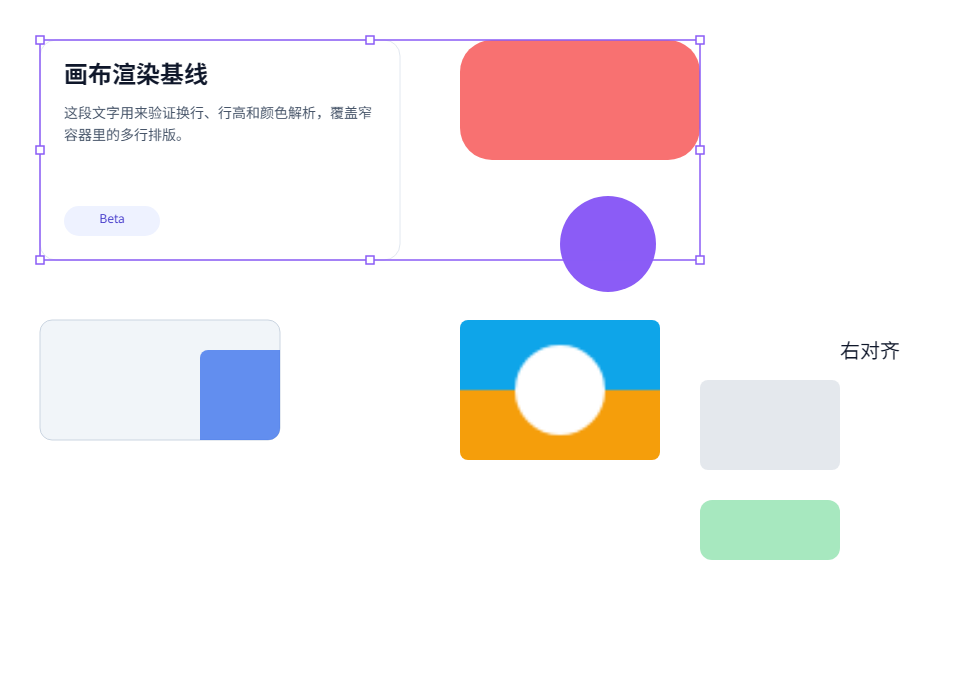
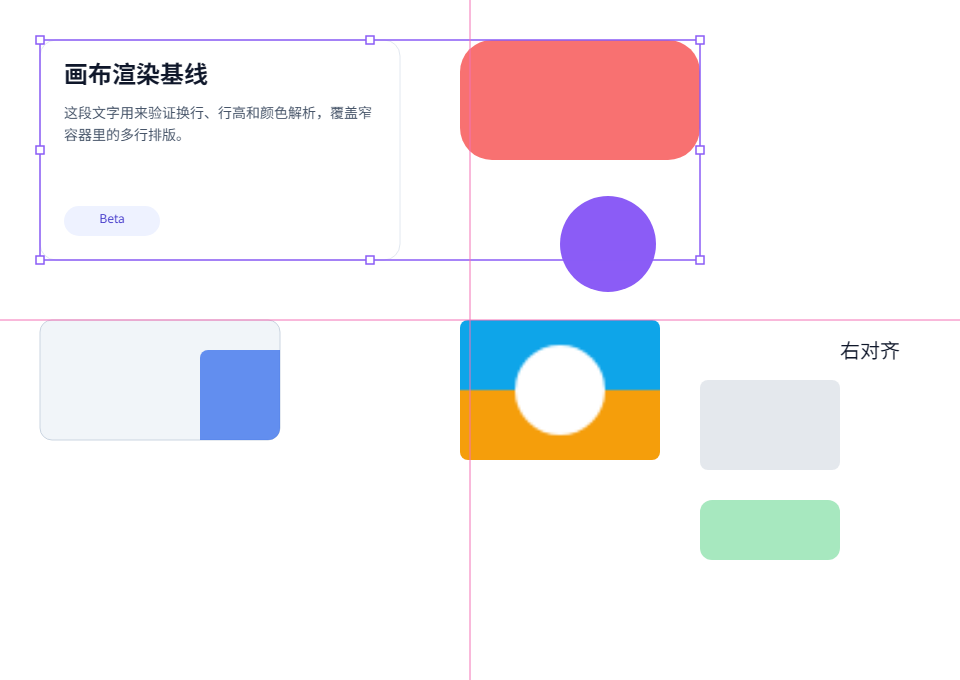
feat: implement snapping functionality with visual guides for canvas interactions

Changed region(s): [[0.4688, 0.4632, 0.5, 0.4941]]

diff --git a/packages/studio-web/test/renderer-snapping.test.ts b/packages/studio-web/test/renderer-snapping.test.ts
@@ -1,0 +1,75 @@
+import assert from "node:assert/strict";
+import test from "node:test";
+import { snapBox, snapTargetsFromScene } from "../src/renderer/snapping";
+import { paintSnapGuides } from "../src/renderer/selection-overlay";
+
+const target = (nodeId: string, x: number, y: number, width = 100, height = 50) => ({ nodeId, box: { x, y, width, height } });
+
+test("snaps a near left edge and reports a vertical guide", () => {
+  const result = snapBox({ x: 98, y: 200, width: 50, height: 50 }, [target("t", 100, 0)], { threshold: 6 });
+  assert.equal(result.deltaX, 2);
+  assert.equal(result.deltaY, 0);
+  assert.deepEqual(result.guides, [{ orientation: "vertical", position: 100, targetNodeId: "t" }]);
+});
+
+test("snaps centres on both axes", () => {
+  const result = snapBox({ x: 0, y: 0, width: 100, height: 100 }, [target("t", 0, 0, 200, 200)], { threshold: 6 });
+  // 左边与上边正好对齐，两轴都产生辅助线。
+  assert.equal(result.deltaX, 0);
+  assert.equal(result.deltaY, 0);
+  assert.equal(result.guides.length, 2);
+
+  const near = snapBox({ x: 96, y: 0, width: 8, height: 200 }, [target("t", 0, 0, 200, 200)], { threshold: 6 });
+  // 左边 96 距 100 有 4；中心 100 正好对齐 100。
+  assert.equal(near.deltaX, 0);
+  assert.equal(near.guides[0]?.orientation, "vertical");
+});
+
+test("ignores targets outside the threshold", () => {
+  const result = snapBox({ x: 0, y: 0, width: 10, height: 10 }, [target("t", 100, 100)], { threshold: 5 });
+  assert.deepEqual(result, { deltaX: 0, deltaY: 0, guides: [] });
+});
+
+test("picks the nearest of several candidates", () => {
+  const result = snapBox({ x: 104, y: 0, width: 10, height: 10 }, [target("far", 106, 0), target("near", 105, 0)], { threshold: 6 });
+  assert.equal(result.deltaX, 1);
+  assert.equal(result.guides[0]?.targetNodeId, "near");
+});
+
+test("snaps both axes independently", () => {
+  const result = snapBox({ x: 98, y: 47, width: 10, height: 10 }, [target("t", 100, 50, 10, 10)], { threshold: 6 });
+  // Y 轴最近的候选是「移动后的中心 52」对齐目标中心 50，所以位移是 -2。
+  assert.equal(result.deltaX, 2);
+  assert.equal(result.deltaY, -2);
+  assert.equal(result.guides.length, 2);
+});
+
+test("snapTargetsFromScene excludes the dragged selection", () => {
+  const scene = [
+    { id: "a", box: { x: 0, y: 0, width: 10, height: 10 }, children: [{ id: "child" }] },
+    { id: "b", box: { x: 20, y: 0, width: 10, height: 10 }, children: [] },
+  ];
+  assert.deepEqual(snapTargetsFromScene(scene, ["a"]).map(item => item.nodeId), ["b"]);
+});
+
+test("paintSnapGuides draws one line per guide with zoom-aware width", () => {
+  const calls: Array<{ name: string; args: unknown[] }> = [];
+  const record = (name: string) => (...args: unknown[]) => { calls.push({ name, args }); };
+  const context = {
+    save: record("save"),
+    restore: record("restore"),
+    beginPath: record("beginPath"),
+    moveTo: record("moveTo"),
+    lineTo: record("lineTo"),
+    stroke: record("stroke"),
+    strokeStyle: "",
+    lineWidth: 1,
+  } as unknown as CanvasRenderingContext2D;
+
+  paintSnapGuides(context, [{ orientation: "vertical", position: 100 }, { orientation: "horizontal", position: 200 }], { width: 960, height: 680 }, { zoom: 2 });
+  assert.equal(calls.filter(call => call.name === "moveTo").length, 2);
+  assert.equal(calls.filter(call => call.name === "lineTo").length, 2);
+  assert.deepEqual(calls.find(call => call.name === "moveTo" && call.args[0] === 100)?.args, [100, 0]);
+  assert.deepEqual(calls.find(call => call.name === "moveTo" && call.args[0] === 0)?.args, [0, 200]);
+  assert.equal((context as unknown as { lineWidth: number }).lineWidth, 0.5);
+});

diff --git a/packages/studio-web/src/renderer/snapping.ts b/packages/studio-web/src/renderer/snapping.ts
@@ -1,0 +1,79 @@
+import type { Rect } from "./selection";
+import type { SceneBox } from "./scene";
+
+/**
+ * 对齐吸附（snapping）。
+ *
+ * 拖动时把选区盒子与其它节点的左/中/右、上/中/下对齐线比较，取阈值内最近的一条，
+ * 输出吸附后的位移与需要绘制的辅助线。纯几何，不依赖 DOM 或 Canvas。
+ */
+export interface SnapTarget {
+  nodeId: string;
+  box: SceneBox;
+}
+
+export interface SnapGuide {
+  orientation: "vertical" | "horizontal";
+  /** 场景坐标：竖线是 x，横线是 y。 */
+  position: number;
+  targetNodeId: string;
+}
+
+export interface SnapResult {
+  deltaX: number;
+  deltaY: number;
+  guides: SnapGuide[];
+}
+
+export interface SnapOptions {
+  /** 吸附阈值（场景单位，调用方按 6px / zoom 传入）。 */
+  threshold: number;
+}
+
+/** 选区各轴上的候选边：左、中、右（或上、中、下）。 */
+function axisValues(box: Rect, axis: "x" | "y"): number[] {
+  const start = axis === "x" ? box.x : box.y;
+  const size = axis === "x" ? box.width : box.height;
+  return [start, start + size / 2, start + size];
+}
+
+export function snapBox(box: Rect, targets: SnapTarget[], options: SnapOptions): SnapResult {
+  const threshold = Math.max(0, options.threshold);
+  let bestX: { delta: number; position: number; nodeId: string } | undefined;
+  let bestY: { delta: number; position: number; nodeId: string } | undefined;
+
+  for (const target of targets) {
+    for (const moving of axisValues(box, "x")) {
+      for (const line of axisValues(target.box, "x")) {
+        const delta = line - moving;
+        if (Math.abs(delta) <= threshold && (!bestX || Math.abs(delta) < Math.abs(bestX.delta))) {
+          bestX = { delta, position: line, nodeId: target.nodeId };
+        }
+      }
+    }
+    for (const moving of axisValues(box, "y")) {
+      for (const line of axisValues(target.box, "y")) {
+        const delta = line - moving;
+        if (Math.abs(delta) <= threshold && (!bestY || Math.abs(delta) < Math.abs(bestY.delta))) {
+          bestY = { delta, position: line, nodeId: target.nodeId };
+        }
+      }
+    }
+  }
+
+  const guides: SnapGuide[] = [];
+  if (bestX) guides.push({ orientation: "vertical", position: bestX.position, targetNodeId: bestX.nodeId });
+  if (bestY) guides.push({ orientation: "horizontal", position: bestY.position, targetNodeId: bestY.nodeId });
+  return { deltaX: bestX?.delta ?? 0, deltaY: bestY?.delta ?? 0, guides };
+}
+
+/** 除被拖动子树外的顶层节点，作为吸附目标。 */
+export function snapTargetsFromScene(scene: Array<{ id: string; box: SceneBox; children: Array<{ id: string }> }>, exclude: Iterable<string>): SnapTarget[] {
+  const excluded = new Set(exclude);
+  const targets: SnapTarget[] = [];
+  for (const node of scene) {
+    if (excluded.has(node.id)) continue;
+    targets.push({ nodeId: node.id, box: node.box });
+  }
+  return targets;
+}

diff --git a/packages/studio-web/src/renderer/use-canvas-drag.ts b/packages/studio-web/src/renderer/use-canvas-drag.ts
@@ -4,6 +4,7 @@ import { hitTest, type HitPoint } from "./hit-test";
 import { hitTestHandle, selectedBoxes, selectionBounds, type HandleId } from "./selection";
 import { offsetSubtreeBoxes, resizeBox } from "./selection-drag";
 import { nodesInRect, rectFromPoints } from "./marquee";
+import { snapBox, snapTargetsFromScene, type SnapGuide } from "./snapping";
 import type { Rect } from "./selection";
 import type { SceneBox, SceneNode } from "./scene";
 
@@ -44,12 +45,15 @@ export function useCanvasDrag(options: CanvasDragOptions): {
   previewBoxes: Record<string, SceneBox>;
   /** 框选中的矩形（场景坐标）。 */
   marquee: Rect | undefined;
+  /** 对齐辅助线。 */
+  guides: SnapGuide[];
   handlers: CanvasDragHandlers;
   /** 刚刚完成过拖拽时置 true，用于抑制随后的 click 清除选择。 */
   consumedClick(): boolean;
 } {
   const [previewBoxes, setPreviewBoxes] = useState<Record<string, SceneBox>>({});
   const [marquee, setMarquee] = useState<Rect | undefined>(undefined);
+  const [guides, setGuides] = useState<SnapGuide[]>([]);
   const marqueeRef = useRef<Rect | undefined>(undefined);
   const previewRef = useRef<Record<string, SceneBox>>({});
   const gestureRef = useRef<Gesture | null>(null);
@@ -97,7 +101,15 @@ export function useCanvasDrag(options: CanvasDragOptions): {
     const deltaX = point.x - gesture.start.x;
     const deltaY = point.y - gesture.start.y;
     if (Math.abs(deltaX) > 0.5 || Math.abs(deltaY) > 0.5) movedRef.current = true;
-    if (gesture.kind === "move") updatePreview(offsetSubtreeBoxes(options.scene, gesture.ids, deltaX, deltaY));
+    if (gesture.kind === "move") {
+      const bounds = selectionBounds(selectedBoxes(options.scene, gesture.ids));
+      const targets = snapTargetsFromScene(options.scene, gesture.ids);
+      const snap = bounds
+        ? snapBox({ ...bounds, x: bounds.x + deltaX, y: bounds.y + deltaY }, targets, { threshold: 6 / Math.max(options.zoom, 0.01) })
+        : { deltaX: 0, deltaY: 0, guides: [] };
+      setGuides(snap.guides);
+      updatePreview(offsetSubtreeBoxes(options.scene, gesture.ids, deltaX + snap.deltaX, deltaY + snap.deltaY));
+    }
     else if (gesture.kind === "resize") updatePreview({ [gesture.id]: resizeBox(gesture.box, gesture.handle, deltaX, deltaY) });
     else {
       const rect = rectFromPoints(gesture.start, point);
@@ -129,6 +141,7 @@ export function useCanvasDrag(options: CanvasDragOptions): {
       if (changes.length) options.onCommit(changes);
     }
     updatePreview({});
+    setGuides([]);
     marqueeRef.current = undefined;
     setMarquee(undefined);
   };
@@ -136,6 +149,7 @@ export function useCanvasDrag(options: CanvasDragOptions): {
   return {
     previewBoxes,
     marquee,
+    guides,
     consumedClick: () => consumedRef.current,
     handlers: {
       onPointerDownCapture,

diff --git a/packages/studio-web/src/main.tsx b/packages/studio-web/src/main.tsx
@@ -1081,9 +1081,9 @@ function App() {
                 <span className="canvas-frame-size">{CANVAS_WIDTH} × {CANVAS_HEIGHT}</span>
               </div>
               <div ref={setCanvas} className={`canvas${canvasRenderer ? " canvas-rendered" : ""}${panMode ? " pan-mode" : ""}`} style={{ zoom }} onClickCapture={compareHitTest} {...canvasDrag.handlers} onClick={event => event.target === event.currentTarget && !canvasDrag.consumedClick() && setSelectedIds([])}>
-                <CanvasSurface enabled={canvasRenderer} repository={repository} projectId={document.id} document={document} pageId={page.id} boxes={canvasLayout.boxes} width={CANVAS_WIDTH} height={CANVAS_HEIGHT} zoom={zoom} viewport={canvasViewport.width > 0 ? canvasViewport : undefined} selection={selectionOverlay || selectionDrag ? selectedIds : undefined} previewBoxes={canvasDrag.previewBoxes} marquee={canvasDrag.marquee} />{page.childIds.map(id => <CanvasNode key={id} projectId={document.id} document={document} node={document.nodes[id]!} selectedIds={selectedIds} layout={canvasLayout} onSelect={(id, event) => setSelectedIds(current => event.shiftKey ? toggleId(current, id) : [id])} onCommitText={(nodeId, text) => patchTextOf(nodeId, { text })} />)}<Suspense fallback={null}>
+                <CanvasSurface enabled={canvasRenderer} repository={repository} projectId={document.id} document={document} pageId={page.id} boxes={canvasLayout.boxes} width={CANVAS_WIDTH} height={CANVAS_HEIGHT} zoom={zoom} viewport={canvasViewport.width > 0 ? canvasViewport : undefined} selection={selectionOverlay || selectionDrag ? selectedIds : undefined} previewBoxes={canvasDrag.previewBoxes} marquee={canvasDrag.marquee} guides={canvasDrag.guides} />{page.childIds.map(id => <CanvasNode key={id} projectId={document.id} document={document} node={document.nodes[id]!} selectedIds={selectedIds} layout={canvasLayout} onSelect={(id, event) => setSelectedIds(current => event.shiftKey ? toggleId(current, id) : [id])} onCommitText={(nodeId, text) => patchTextOf(nodeId, { text })} />)}{!selectionDrag && <Suspense fallback={null}>
                   <CanvasInteractionLayer canvas={canvas} nodes={pageNodes} selectedIds={selectedRootIds} disabled={busy || selectionLocked} onSelect={ids => setSelectedIds(ids.filter(id => { const node = document.nodes[id]; return !node || canvasSelectable(node); }))} onCommit={patchLayouts} />
-                </Suspense>
+                </Suspense>}
               </div>
             </div>
           </ContextMenuTrigger>

diff --git a/packages/studio-web/src/renderer/canvas-surface.tsx b/packages/studio-web/src/renderer/canvas-surface.tsx
@@ -4,7 +4,8 @@ import type { ProjectRepository } from "@ufira/design-persistence";
 import { loadAssetUrl } from "../asset-url";
 import { buildScene, type SceneBox, type SceneNode } from "./scene";
 import { cullScene, type CullViewport } from "./culling";
-import { paintMarquee, paintSelectionOverlay } from "./selection-overlay";
+import { paintMarquee, paintSelectionOverlay, paintSnapGuides } from "./selection-overlay";
+import type { SnapGuide } from "./snapping";
 import { selectedBoxes, selectionBounds, type Rect } from "./selection";
 import { applyBoxOverrides } from "./selection-drag";
 import { createCanvas2DRenderer, type SceneRenderer } from "./canvas-renderer";
@@ -34,9 +35,11 @@ export interface CanvasSurfaceProps {
   previewBoxes?: Record<string, SceneBox>;
   /** 框选矩形（场景坐标）。 */
   marquee?: Rect;
+  /** 拖动时的对齐辅助线。 */
+  guides?: SnapGuide[];
 }
 
-export function CanvasSurface({ enabled, repository, projectId, document, pageId, boxes, width, height, zoom, viewport, selection, previewBoxes, marquee }: CanvasSurfaceProps) {
+export function CanvasSurface({ enabled, repository, projectId, document, pageId, boxes, width, height, zoom, viewport, selection, previewBoxes, marquee, guides }: CanvasSurfaceProps) {
   const canvasRef = useRef<HTMLCanvasElement>(null);
   const rendererRef = useRef<SceneRenderer | undefined>(undefined);
   const [images, setImages] = useState<Map<string, CanvasImageSource>>(() => new Map());
@@ -88,9 +91,10 @@ export function CanvasSurface({ enabled, repository, projectId, document, pageId
         if (marquee) paintMarquee(context, marquee, { zoom });
         const bounds = selectionBounds(selectedBoxes(paintedScene, selection));
         if (bounds) paintSelectionOverlay(context, bounds, { zoom });
+        if (guides?.length) paintSnapGuides(context, guides, { width, height }, { zoom });
       },
     });
-  }, [enabled, paintedScene, zoom, images, width, height, selection, marquee]);
+  }, [enabled, paintedScene, zoom, images, width, height, selection, marquee, guides]);
 
   if (!enabled) return null;
   return <canvas ref={canvasRef} className="canvas-surface" aria-hidden="true" />;

diff --git a/packages/studio-web/src/renderer/selection-overlay.ts b/packages/studio-web/src/renderer/selection-overlay.ts
@@ -55,3 +55,29 @@ export function paintMarquee(context: CanvasRenderingContext2D, rect: { x: numbe
   context.strokeRect(rect.x, rect.y, rect.width, rect.height);
   context.restore();
 }
+
+/** 对齐辅助线：贯穿画布视口的 1px 线（按 zoom 换算保持屏幕宽度）。 */
+export function paintSnapGuides(
+  context: CanvasRenderingContext2D,
+  guides: Array<{ orientation: "vertical" | "horizontal"; position: number }>,
+  extent: { width: number; height: number },
+  options: { color?: string; zoom?: number } = {},
+): void {
+  if (!guides.length) return;
+  const zoom = options.zoom && options.zoom > 0 ? options.zoom : 1;
+  context.save();
+  context.strokeStyle = options.color ?? "#f472b6";
+  context.lineWidth = 1 / zoom;
+  context.beginPath();
+  for (const guide of guides) {
+    if (guide.orientation === "vertical") {
+      context.moveTo(guide.position, 0);
+      context.lineTo(guide.position, extent.height);
+    } else {
+      context.moveTo(0, guide.position);
+      context.lineTo(extent.width, guide.position);
+    }
+  }
+  context.stroke();
+  context.restore();
+}

diff --git a/packages/studio-web/harness/main.ts b/packages/studio-web/harness/main.ts
@@ -3,7 +3,7 @@ import { createDocument, defaultAppearance, defaultLayout, type DesignDocument, 
 import { buildScene } from "../src/renderer/scene";
 import { createCanvas2DRenderer } from "../src/renderer/canvas-renderer";
 import { cullScene } from "../src/renderer/culling";
-import { paintSelectionOverlay } from "../src/renderer/selection-overlay";
+import { paintSelectionOverlay, paintSnapGuides } from "../src/renderer/selection-overlay";
 import { selectedBoxes, selectionBounds } from "../src/renderer/selection";
 import { fixtureDocument } from "./fixture";
 
@@ -52,6 +52,8 @@ async function main(): Promise<void> {
     ...options,
     onAfterPaint: context => {
       if (demoSelection) paintSelectionOverlay(context, demoSelection, { zoom: 1 });
+      // 固定两条辅助线，让像素基线也覆盖吸附线的绘制。
+      paintSnapGuides(context, [{ orientation: "vertical", position: 470 }, { orientation: "horizontal", position: 320 }], { width: WIDTH, height: HEIGHT }, { zoom: 1 });
     },
   });
 

diff --git a/docs/canvas-renderer-roadmap.md b/docs/canvas-renderer-roadmap.md
@@ -99,13 +99,17 @@
   同时启动、`consumedClick` 抑制拖拽后的误清除选择）。开关 `?selection=drag`：拖动已选
   节点或拖手柄时由 Canvas 接管，提交仍走现有 `node.patch` 事务。
 - 框选：`renderer/marquee.ts`（拖拽矩形归一化、与顶层节点求交）+ Canvas 半透明框选绘制；
-  `?selection=drag` 下空白处拖动即开始框选，松手后直接设置选中集合，空白框选不再依赖
-  Selecto（Selecto 仍装载，属于对比阶段）。
+  `?selection=drag` 下空白处拖动即开始框选，松手后直接设置选中集合。
+- 对齐吸附：`renderer/snapping.ts`（左/中/右、上/中/下对齐线，阈值内取最近，输出位移与
+  辅助线）+ `paintSnapGuides`；拖动时的位移会叠加吸附修正，辅助线随拖动绘制，松手后
+  按吸附后的位置提交。像素基线里也画了两条固定辅助线，覆盖该绘制路径；
+- `?selection=drag` 时不再挂载 `CanvasInteractionLayer`：Moveable/Selecto 整个跳过，
+  选择框、拖拽、缩放、框选全部由 Canvas 接管；默认路径仍然挂载（可随时回退）。
 
 ### 剩余工作
 
 1. 在浏览器里实际跑一段双跑对比与拖拽，确认没有系统性偏差；
-2. 移除 Moveable/Selecto（`?selection=drag` 稳定后；框选已具备替代实现）；
+2. 让 Canvas 选择层成为默认并删除 Moveable/Selecto 依赖（当前由开关切换）；
 3. 移除透明 DOM 节点副本与 `canvas-rendered` 隐藏规则；
 4. 保留 `<textarea>` 文本编辑覆盖层。
 

diff --git a/docs/current-project-status.md b/docs/current-project-status.md
@@ -115,7 +115,10 @@
   工作台用 `?selection=overlay` 与 Moveable 并排对比。`?selection=drag` 下由 Canvas 接管
   拖动与单节点缩放：预览盒子覆盖绘制、指针在捕获阶段处理并阻断 Moveable，松手后按现有
   `node.patch` 事务提交；空白处拖动可框选（Canvas 绘制选框、与顶层节点求交），
-  松手直接更新选中集合。Moveable/Selecto 仍在页面上，尚未移除。
+  松手直接更新选中集合。`?selection=drag` 下不再挂载 Moveable/Selecto，选择、拖拽、
+  缩放、框选全部由 Canvas 接管；默认路径仍保留旧交互层以便回退。拖动时会按
+  左/中/右、上/中/下对齐线做 6px（按 zoom 换算）吸附并绘制辅助线，松手按吸附后的
+  位置提交。
   场景构建与绘制调用都有单元测试
   （假 2D 上下文断言 fill/clip/drawImage/fillText），但还没有对真实浏览器里的画布做
   像素验证，也没有做视口裁剪（culling）；
